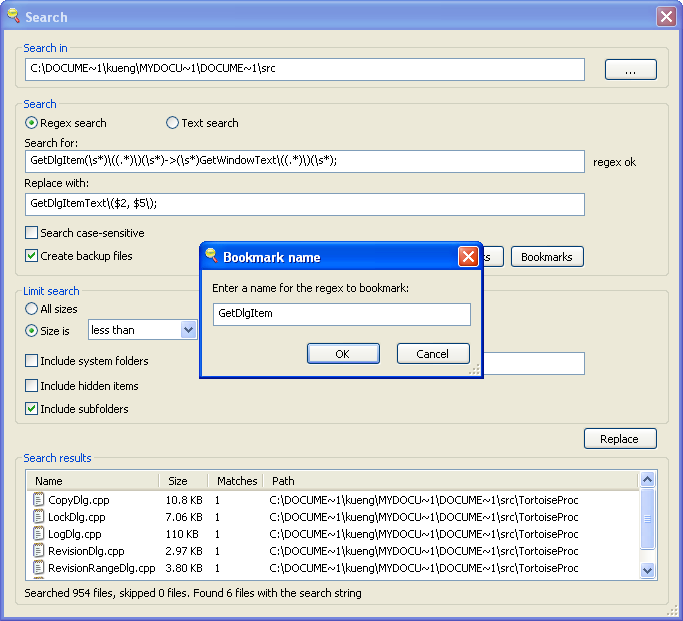
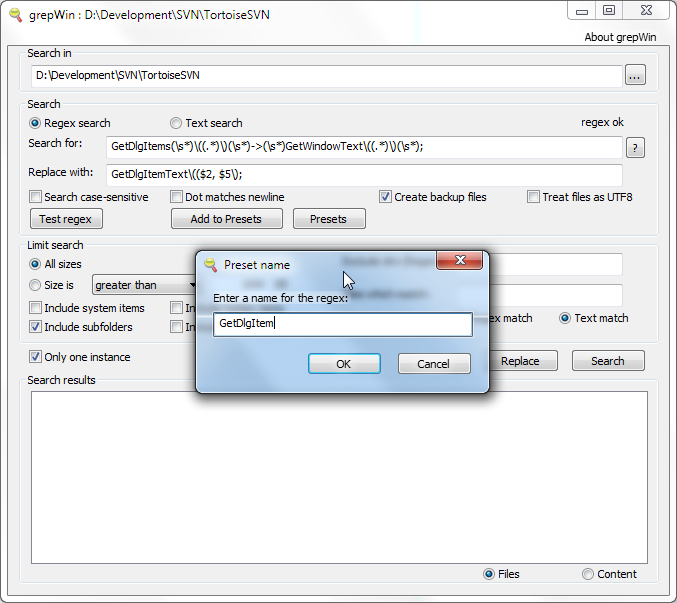
Update screenshots for grepWin.

diff --git a/trunk/www/grepWin.html b/trunk/www/grepWin.html
@@ -35,10 +35,10 @@
             <a href="images/grepWin_search.png" rel="lightbox[grepwin]"><img src="images/grepWin_search-small.png"></a>.
             <p>For example, you can (and maybe you should) limit the search to certain file sizes, file types, ...</p>
             <p>Since regular expressions can sometimes get complicated, grepWin 
-            allows you to bookmark your most used expressions.</p>
+            allows you to add your most used expressions to a presets list.</p>
             <a href="images/grepWin_addBookmark.png" rel="lightbox[grepwin]"><img src="images/grepWin_addBookmark-small.png"></a>.
-            <p>Once you've added some bookmarks, you can easily retrieve them 
-            again from the bookmarks dialog.</p>
+            <p>Once you've added some presets, you can easily retrieve them 
+            again from the presets dialog.</p>
             <a href="images/grepWin_bookmarks.png" rel="lightbox[grepwin]"><img src="images/grepWin_bookmarks-small.png"></a>.
             <p>After a successful search or replace, the matching files are 
             listed at the bottom of the dialog. The file list behaves a lot 
